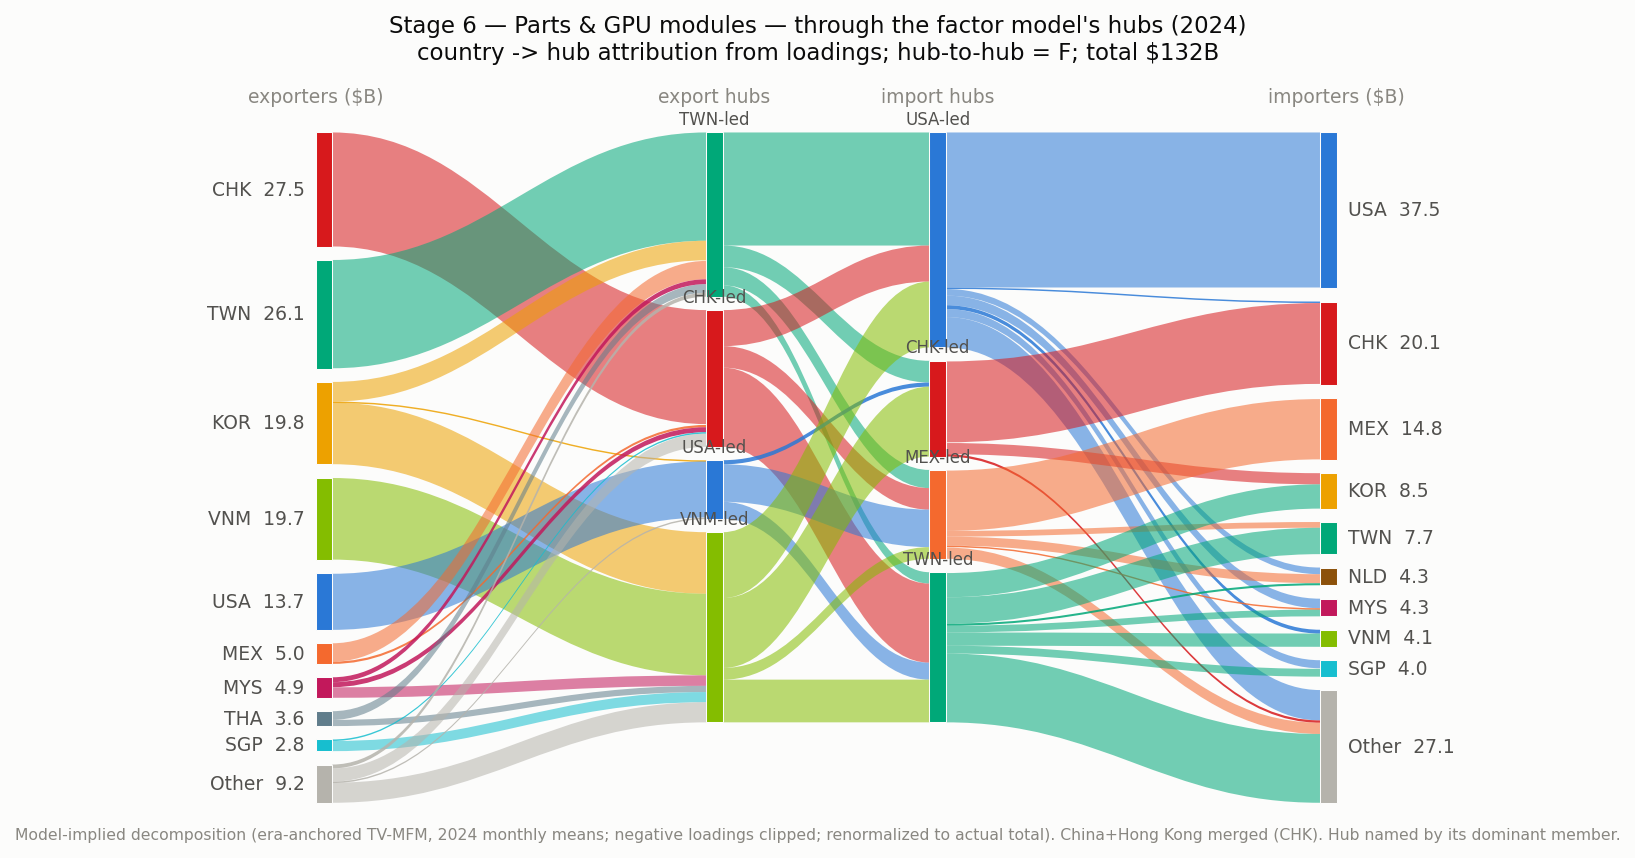
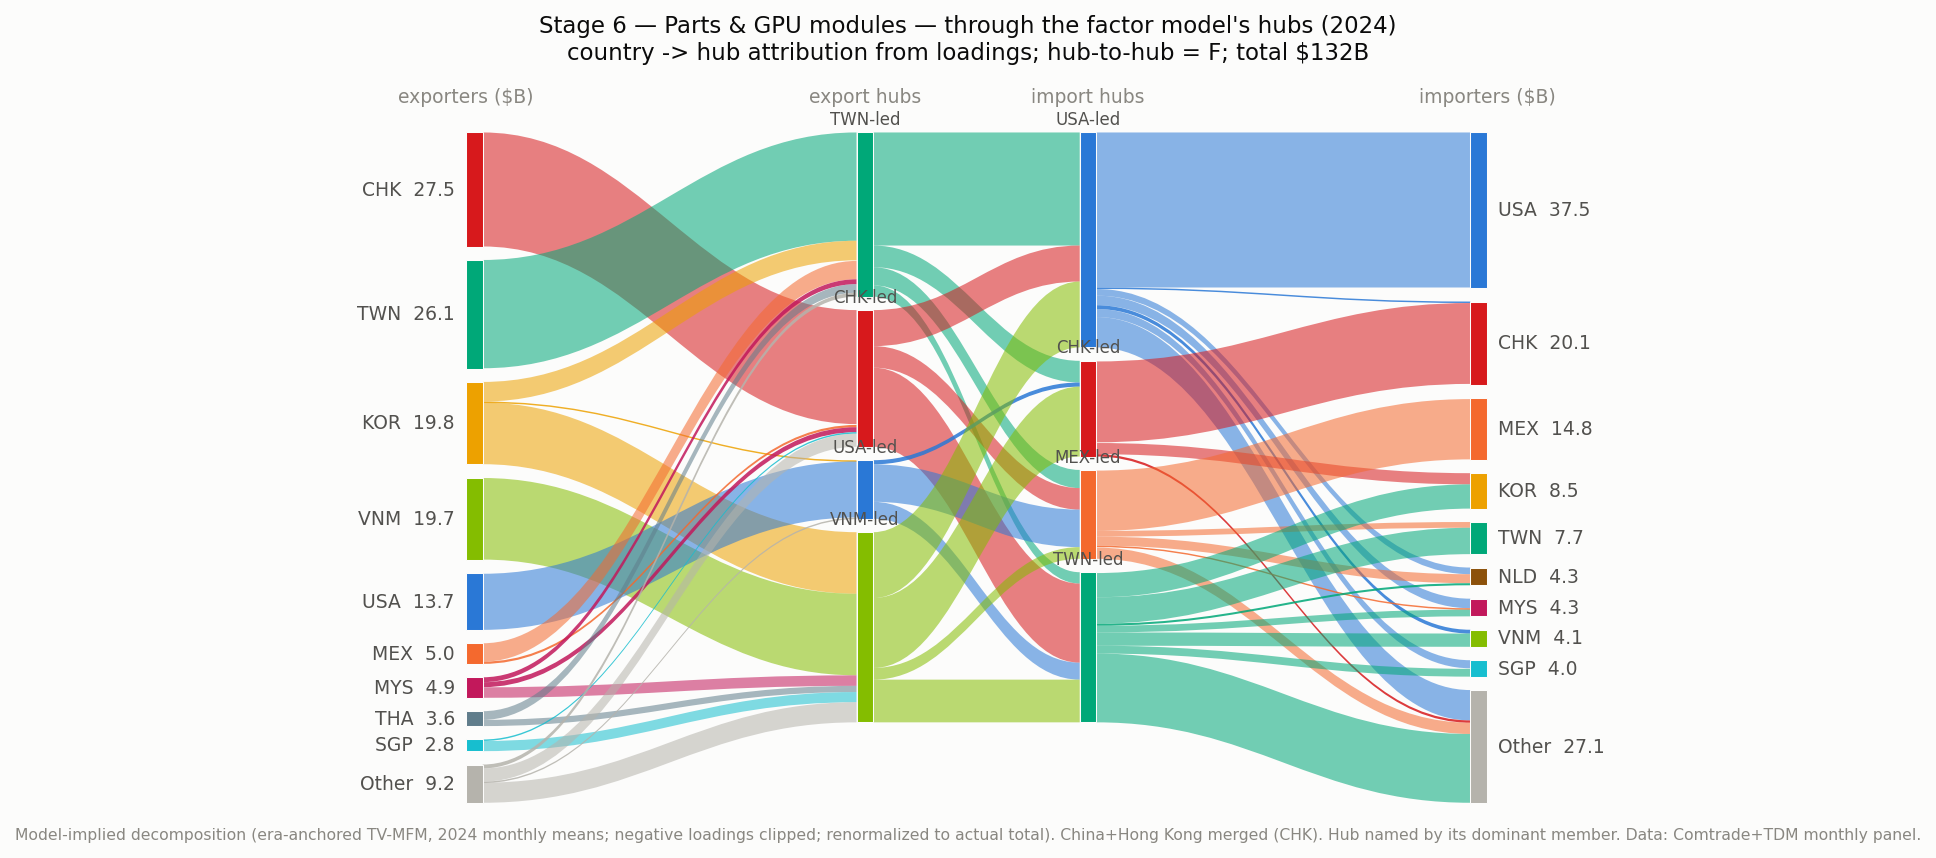
Charts: correct source citations, add 2025 compute-stage versions, retire log overview
- Footers now name each source precisely: stages 1-5 Atlas HS2012 ANNUAL
  bilateral (ends 2024 -- why the unified set is 2024); stages 6-8
  Comtrade+TDM monthly panel.
- 2025 versions of the three compute-stage hub charts added (the panel
  has 2025; servers total jumps to $255B, MEX-hub attribution 190B).
- Log-scale overview retired: log of stage totals inflates small,
  Other-dominated stages wholesale (user-identified flaw); dollar and
  normalized versions remain as the honest pair.

diff --git a/scripts/export_supply_chain_sankey.py b/scripts/export_supply_chain_sankey.py
@@ -85,9 +85,9 @@ def flows_json(baskets):
     return apply_bloc(agg)
 
 
-def flows_panel(code):
+def flows_panel(code, year=YEAR):
     p = pd.read_parquet(cfg.DATA_DIR / "derived" / "panel_ai_compute_monthly.parquet")
-    p = p[(p.code == code) & (p.period.str[:4] == YEAR)]
+    p = p[(p.code == code) & (p.period.str[:4] == year)]
     g = p.groupby(["exporter", "importer"]).value.sum() / 1e9
     return apply_bloc({k: float(v) for k, v in g.items()})
 
@@ -214,16 +214,16 @@ def varimax(L, iters=200, tol=1e-8):
     return O
 
 
-def hubs_from_panel(code):
+def hubs_from_panel(code, year=YEAR):
     """Hub inputs from the era-anchored TV-MFM (China+HKG bloc variant): 2024 means
     of monthly loadings/F."""
     s = json.load(open(cfg.RESULTS_DIR / "mfm" / "tvmfm" / "chn_hkg_bloc" / code / "stats.json"))
-    months = [p for p in s["periods"] if p.startswith(YEAR)]
+    months = [p for p in s["periods"] if p.startswith(year)]
     countries = s["countries"]
     R = np.mean([np.array(s["R_by_period"][m]) for m in months], axis=0).clip(min=0)
     C = np.mean([np.array(s["C_by_period"][m]) for m in months], axis=0).clip(min=0)
     F = np.mean([np.array(s["F_by_period"][m]) for m in months], axis=0)
-    return countries, R, C, F, "era-anchored TV-MFM, 2024 monthly means"
+    return countries, R, C, F, f"era-anchored TV-MFM, {year} monthly means"
 
 
 def hubs_from_json(baskets, k=4):
@@ -262,16 +262,18 @@ def hubs_from_json(baskets, k=4):
         "constant-loading annual MFM 2020-24 (no monthly panel upstream)"
 
 
-def draw_hub_chart(fname, title, code_or_baskets, kind):
+def draw_hub_chart(fname, title, code_or_baskets, kind, year=YEAR):
     """Four-column chart: exporters -> export hubs -> import hubs -> importers.
     Hub-pair dollars are the model-implied decomposition renormalized to the
     year's actual total -- an interpretation layer, not raw data."""
     if kind == "panel":
-        countries, R, C, F, src = hubs_from_panel(code_or_baskets)
-        total_actual = sum(flows_panel(code_or_baskets).values())
+        countries, R, C, F, src = hubs_from_panel(code_or_baskets, year)
+        total_actual = sum(flows_panel(code_or_baskets, year).values())
+        data_src = "Comtrade+TDM monthly panel"
     else:
         countries, R, C, F, src = hubs_from_json(code_or_baskets)
         total_actual = sum(flows_json(code_or_baskets).values())
+        data_src = "Atlas HS2012 annual bilateral"
     K = R.shape[1]
     hubR = [f"{countries[int(R[:, a].argmax())]}-led" for a in range(K)]
     hubC = [f"{countries[int(C[:, b].argmax())]}-led" for b in range(K)]
@@ -369,13 +371,14 @@ def draw_hub_chart(fname, title, code_or_baskets, kind):
     for x, lab in ((xs[0], "exporters ($B)"), (xs[1] + nw / 2, "export hubs"),
                    (xs[2] + nw / 2, "import hubs"), (xs[3] + nw, "importers ($B)")):
         ax.text(x, 1.045, lab, ha="center", fontsize=9, color=MUTED)
-    ax.set_title(f"{title} — through the factor model's hubs ({YEAR})\n"
+    ax.set_title(f"{title} — through the factor model's hubs ({year})\n"
                  f"country -> hub attribution from loadings; hub-to-hub = F; "
                  f"total ${total_actual:.0f}B", fontsize=11, color=INK, pad=16)
     ax.text(0.5, -0.055, f"Model-implied decomposition ({src}; negative loadings "
-            "clipped; renormalized to actual total). China+Hong Kong merged (CHK). Hub named by its dominant member.",
+            "clipped; renormalized to actual total). China+Hong Kong merged (CHK). "
+            f"Hub named by its dominant member. Data: {data_src}.",
             ha="center", fontsize=7.5, color=MUTED)
-    out = OUT_DIR / f"supply_chain_{fname}_hubs_{YEAR}.png"
+    out = OUT_DIR / f"supply_chain_{fname}_hubs_{year}.png"
     fig.savefig(out, dpi=150, bbox_inches="tight", facecolor=SURFACE)
     plt.close(fig)
     print(f"-> {out}")
@@ -593,8 +596,10 @@ def draw_chain_overview(input_stages, seq_stages, MODE="dollar"):
     ax.text(0.5, -0.155, "Ribbon colour = exporting country (legend above); columns are "
             f"checkpoints (buy left, sell right). China+Hong Kong merged (CHK). Countries under {FOLD_MIN:.0f}B on a "
             "side fold into Other, so small stages may show few named countries. No "
-            "cross-stage absorption implied. Sources: docs/tech-ai-taxonomy.md; Atlas "
-            "HS2012 bilateral / monthly panel.", ha="center", fontsize=8, color=MUTED)
+            "cross-stage absorption implied. 2024 = latest year covered by every stage. "
+            "Sources: stages 1-5 Atlas HS2012 ANNUAL bilateral (ends 2024); stages 6-8 "
+            "Comtrade+TDM monthly panel (2025 versions of those charts exist).",
+            ha="center", fontsize=8, color=MUTED)
     out = OUT_DIR / f"supply_chain_overview_{MODE}_{YEAR}.png"
     fig.savefig(out, dpi=150, bbox_inches="tight", facecolor=SURFACE)
     plt.close(fig)
@@ -731,11 +736,13 @@ def main():
         flows = flows_json(arg) if kind == "json" else flows_panel(arg)
         all_flows.append(flows)
         draw_hub_chart(fname, title, arg, kind)
+        if kind == "panel":
+            draw_hub_chart(fname, title, arg, kind, year="2025")
     input_stages = [("raw materials", all_flows[0]), ("wafers", all_flows[1]),
                     ("litho & optics", all_flows[2]), ("fab equipment", all_flows[3])]
     seq_stages = [("chips", all_flows[4]), ("parts & modules", all_flows[5]),
                   ("baseboards", all_flows[6]), ("AI servers", all_flows[7])]
-    for mode in ("dollar", "log", "normalized"):
+    for mode in ("dollar", "normalized"):   # log retired: inflates small (Other-heavy) stages
         draw_chain_overview(input_stages, seq_stages, mode)
 
 
